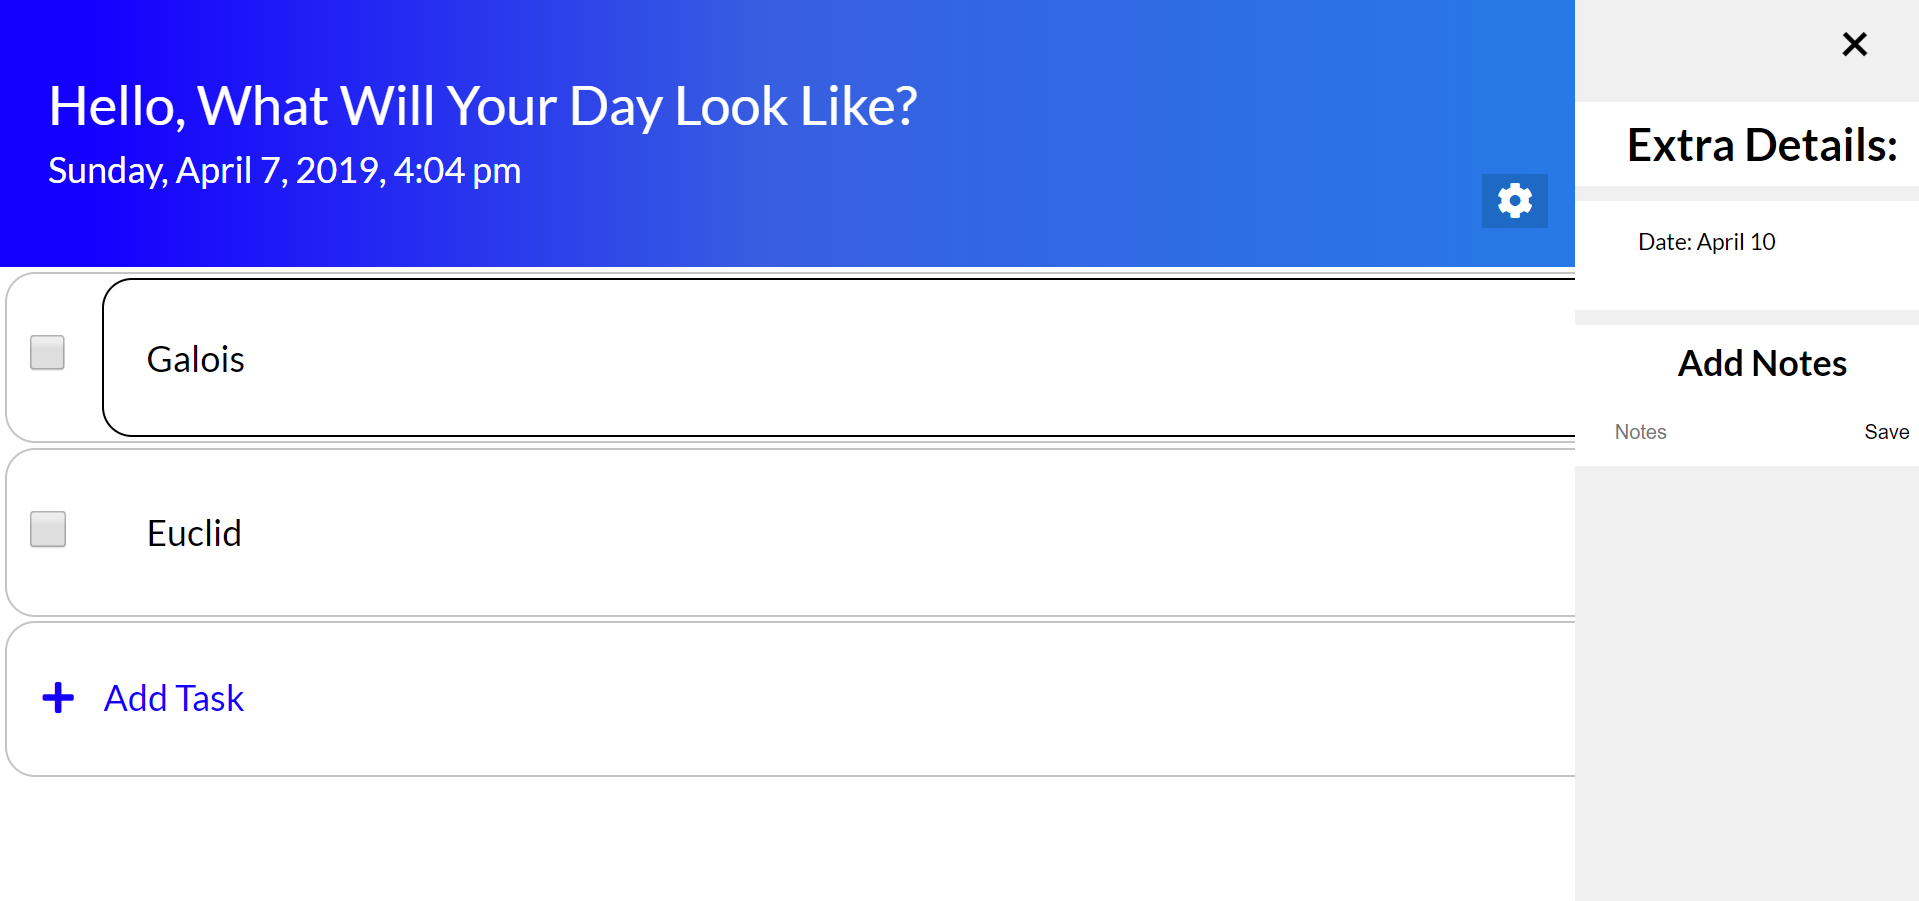
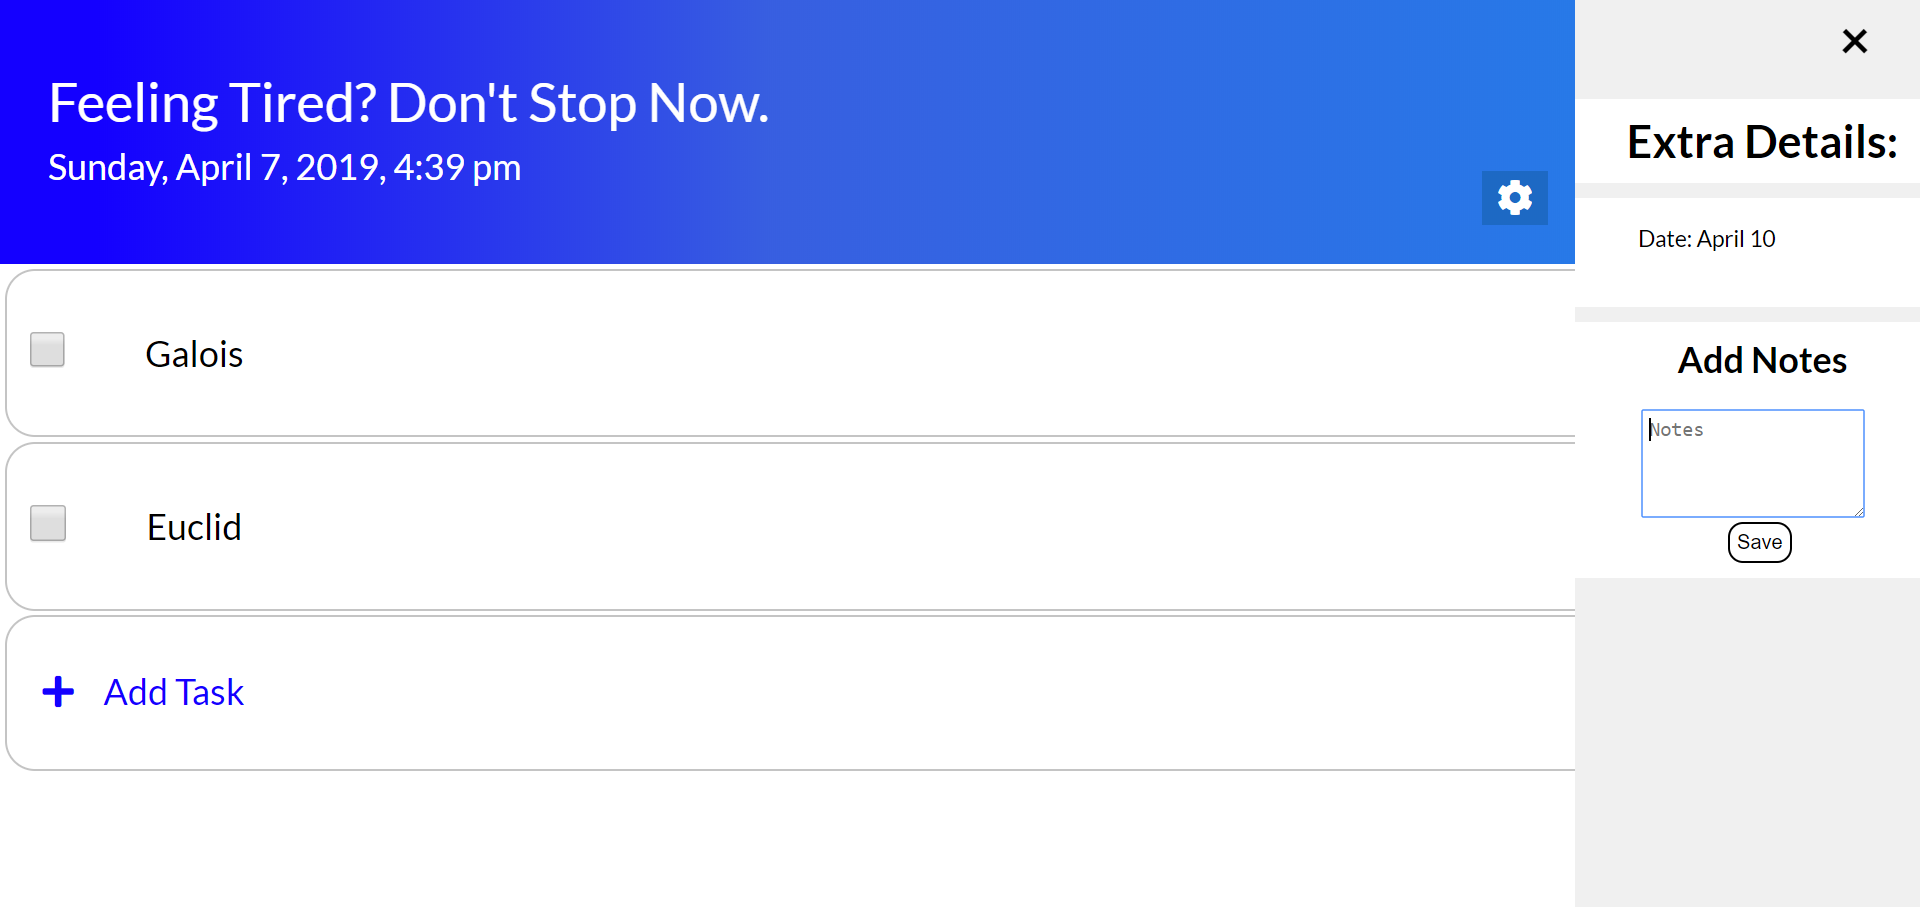
Edited input fields

diff --git a/frontend/js/main.js b/frontend/js/main.js
@@ -58,7 +58,7 @@ function openNav() {
     var h2 = document.createElement("H2");
     var text3 = document.createTextNode("Add Notes");
     var skipLine = document.createElement("BR")
-    var input = document.createElement("INPUT");
+    var input = document.createElement("TEXTAREA");
     var text4 = document.createTextNode("Save")
     var submit = document.createElement("BUTTON");
 
@@ -79,6 +79,8 @@ function openNav() {
     div3.appendChild(h2);
     div3.appendChild(skipLine);
     input.setAttribute("placeholder", "Notes");
+    input.setAttribute("rows", "4");
+    input.setAttribute("cols", "30");
     div3.appendChild(input);
     submit.appendChild(text4);
     div3.appendChild(submit);
@@ -125,7 +127,7 @@ function openNav2() {
     var h2 = document.createElement("H2");
     var text3 = document.createTextNode("Add Notes");
     var skipLine = document.createElement("BR")
-    var input = document.createElement("INPUT");
+    var input = document.createElement("TEXTAREA");
     var text4 = document.createTextNode("Save")
     var submit = document.createElement("BUTTON");
 
@@ -146,6 +148,8 @@ function openNav2() {
     div3.appendChild(h2);
     div3.appendChild(skipLine);
     input.setAttribute("placeholder", "Notes");
+    input.setAttribute("rows", "4");
+    input.setAttribute("cols", "30");
     div3.appendChild(input);
     submit.appendChild(text4);
     div3.appendChild(submit);

diff --git a/frontend/css/eric.css b/frontend/css/eric.css
@@ -140,18 +140,19 @@ h5 {
   margin-bottom: 20px;
   border: none;
   margin-top: 10px;
+  white-space: normal;
 }
 
 .addition .save {
   margin-top: 40px;
   padding: 5px;
-  border: none;
+  border: 1px solid black;
+  border-radius: 10px;
 }
 
 .addition .save:hover {
   border-color: white;
   background-color: white;
-  border-radius: 10px;
 }
 
 .accessibility button {
@@ -345,22 +346,24 @@ h5 {
   text-align: center;
 }
 
-.sidenav #input input {
+.sidenav #input textarea {
   width: 60%;
   padding: 5px;
-  margin-left: 5%;
+  margin-left: 15%;
   border: none;
+  white-space: normal;
 }
 
 .sidenav #input button {
-  margin-left: 8%;
+  margin-left: 40%;
   padding: 5px;
-  border: none;
+  border: 1px solid black;
+  border-radius: 10px;
 }
 
 .sidenav #input button:hover {
-  background-color: rgb(240, 240, 240);
-  border-radius: 10px;
+  border-color: rgb(206, 206, 206);
+  background-color: rgb(206, 206, 206);
 }
 
 @media screen and (max-height: 450px) {

diff --git a/frontend/index.html b/frontend/index.html
@@ -82,7 +82,7 @@
             <input placeholder="Location">
             <br>
             <h1>Extra Notes:</h1>
-            <input placeholder="Notes">
+            <textarea placeholder="Notes" rows="4" cols="30"></textarea>
             <br>
             <button class="save" onclick="off()">Save Changes</button>
         </div>

diff --git a/frontend/signin.html b/frontend/signin.html
@@ -33,7 +33,7 @@
 
         <div class="header">
             <center>
-                <h1 style="padding-top: 60px">To-Do-List. Better Than Ever.</h1>
+                <h1 style="padding-top: 60px">Orderly Life To-Do List. Better Than Ever.</h1>
             </center>
         </div>
 
